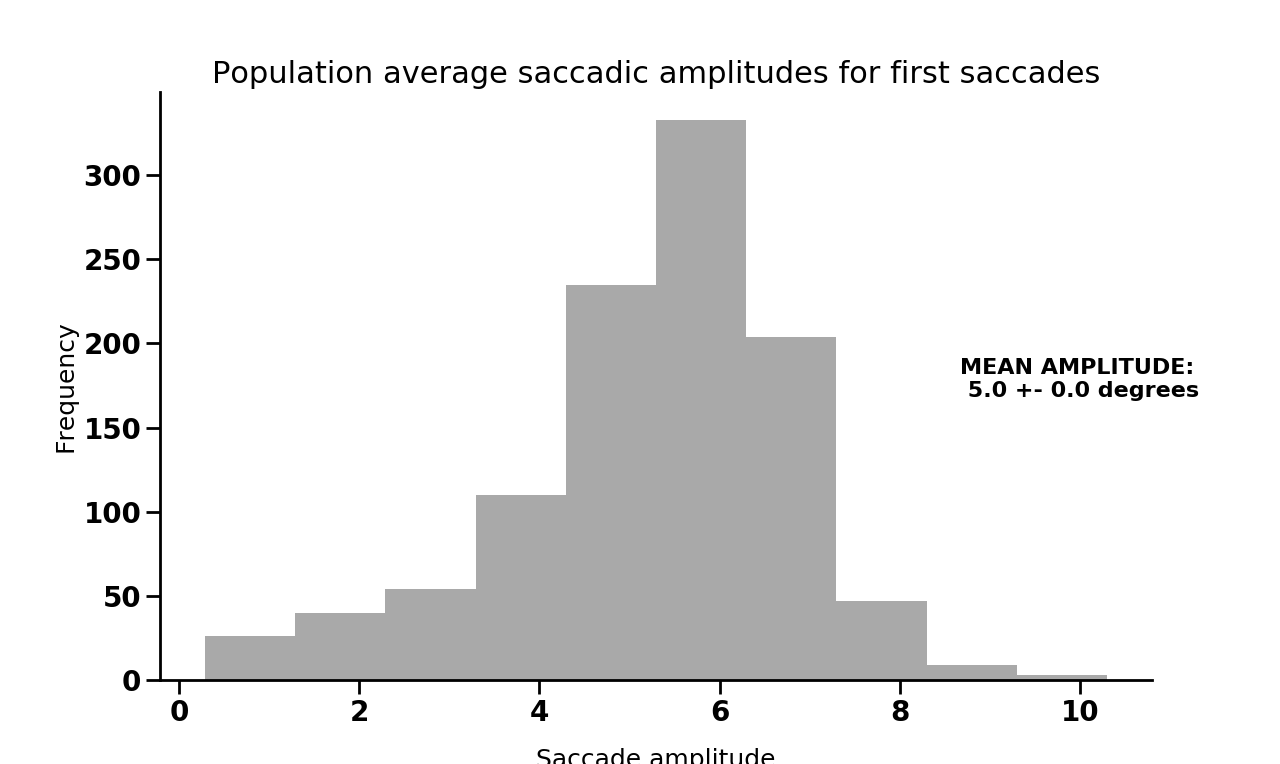
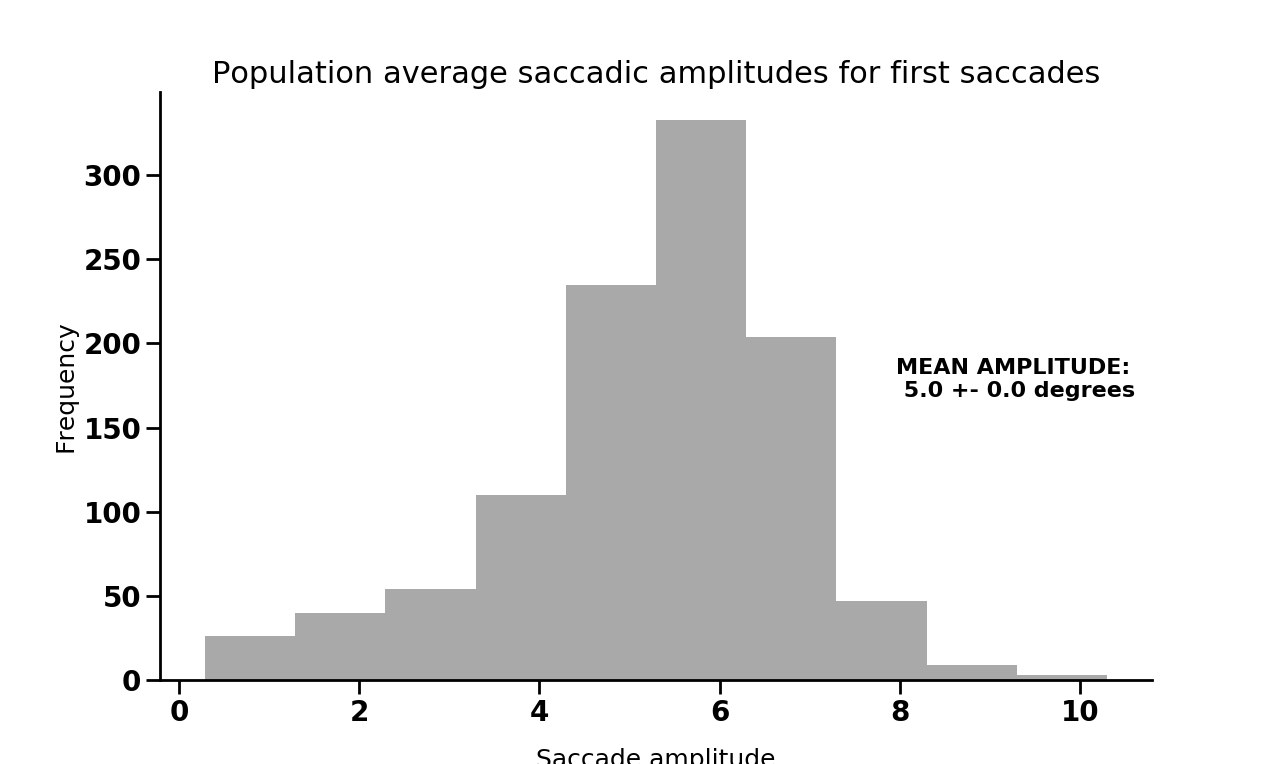
added figures and analysis code for anticipatory saccades

Changed region(s): [[0.6875, 0.4516, 0.9375, 0.5419]]

diff --git a/saccade_kinetmatic_analysis.py b/saccade_kinetmatic_analysis.py
@@ -312,6 +312,7 @@ def computeFirstSaccadeKinetmatics(block_matrix):
 # Start with computing saccadic onset latencies for first saccades only
 	# Pre-allocate data structure holders
 	onset_latencies = [[] for su in block_matrix];
+	anticipatory_latencies = [[] for su in block_matrix];
 	amplitudes = [[] for su in block_matrix];
 
 	#loop through each trial and score whether trial was excluded because of a dropped sample
@@ -358,6 +359,8 @@ def computeFirstSaccadeKinetmatics(block_matrix):
 						
 						#calculate the latency and amplitude, then save to the subject's array
 						onset_latencies[subj_nr].append(sac_start_time);
+						if sac_start_time<100:
+							anticipatory_latencies[subj_nr].append(sac_start_time);
 						amplitudes[subj_nr].append(sqrt((sac_start_pos[0] - sac_end_pos[0])**2+(sac_start_pos[1] - sac_end_pos[1])**2));
 											
 	#now calculate population stats for latency and amplitude, and plot
@@ -387,8 +390,6 @@ def computeFirstSaccadeKinetmatics(block_matrix):
 	#save the figure
 	savefig(figurepath+ 'SaccadeKinematics/' + 'FIRST_SACCADE_ONSET_DISTRIBUTION_ALLSUBJECTS.png');	
 
-
-
 	#now plot distribution of amplitudes
 	
 	fig = figure(figsize = (12.8,7.64)); ax=gca(); #grid(True);
@@ -402,11 +403,52 @@ def computeFirstSaccadeKinetmatics(block_matrix):
 	title('Population average saccadic amplitudes for first saccades', fontsize = 22);
 	
 	#add text detailing the mean saccadic latency
-	fig.text(0.75, 0.48, 'MEAN AMPLITUDE:\n %s +- %s degrees '%(round(mean(mew_amps)),round(amps_sems)),size=16,weight='bold');
+	fig.text(0.7, 0.48, 'MEAN AMPLITUDE:\n %s +- %s degrees '%(round(mean(mew_amps)),round(amps_sems)),size=16,weight='bold');
 
 	#save the figure
-	savefig(figurepath+ 'SaccadeKinematics/' + 'FIRST_SACCADE_AMPLITUDE_DISTRIBUTION_ALLSUBJECTS.png');	
+	savefig(figurepath+ 'SaccadeKinematics/' + 'FIRST_SACCADE_AMPLITUDE_DISTRIBUTION_ALLSUBJECTS.png');
+	
+	
+	#Belwo here, check out fast latency saccades
+	
+	#now, plot the distribution of very fast sacadic latencies, with a greater resoultion for anticipatory saccades:
+	
+	fast_lats = [l for l in all_lats if l<250];
+	
+	fig = figure(figsize = (12.8,7.64)); ax1=gca(); #grid(True);
+	#ax1.set_ylim(0, 0.8); ax1.set_yticks(arange(0, 0.81, 0.1)); #ax1.set_xlim([0.5,1.7]); ax1.set_xticks([0.85, 1.15, 1.45]);
+	ax1.set_ylabel('Frequency',size=18); ax1.set_xlabel('Onset latency',size=18,labelpad=15);
+	ax1.hist(fast_lats, bins = [0,25,50,75,100,125,150,175,200,225,250], color = 'green', edgecolor = 'black');
 
+	ax1.spines['right'].set_visible(False); ax1.spines['top'].set_visible(False);
+	ax1.spines['bottom'].set_linewidth(2.0); ax1.spines['left'].set_linewidth(2.0);
+	ax1.yaxis.set_ticks_position('left'); ax1.xaxis.set_ticks_position('bottom');
+	title('Population average saccadic latencies for \n FAST LATENCY (<250 ms) first saccades', fontsize = 22);
+	
+	#add text detailing the mean saccadic latency
+	fig.text(0.15, 0.48, 'POPULATION MEAN LATENCY:\n %s '%(round(mean(fast_lats))),size=16,weight='bold');
+
+	#save the figure
+	savefig(figurepath+ 'SaccadeKinematics/' + 'FASTLATENCY_FIRST_SACCADE_ONSET_DISTRIBUTION_ALLSUBJECTS.png');		
+
+	# Now find the number of fast (< 100 ms) saccades for each participant, find an average, and SEMs
+	anticipatory_mews = [mean(o) for o in anticipatory_latencies];
+	anticipatory_lens = [len(o) for o in anticipatory_latencies];
+	
+	mew_ant_lat = nanmean(anticipatory_mews);
+	sems_ant_lat = compute_BS_SEM(anticipatory_mews);
+	mew_ant_nr = nanmean(anticipatory_lens);
+	sems_ant_nr = compute_BS_SEM(anticipatory_lens);
+
+	print('\n\n #### ANTICIPATORY SACCADE DATA: #### \n\n\n');
+	print('\n\n MEAN LATENCY OF ANTICIPATORY 1ST SACCADES:\n %s +- %s\n\n'%(mew_ant_lat,sems_ant_lat));
+	print('\n\n MEAN NR ANTICIPATORY 1ST SACCADES:\n %s +- %s\n\n'%(mew_ant_nr, sems_ant_nr));
+
+		
+	
+	1/0
+
+	
 	
 def computeAllSaccadeKinetmatics(block_matrix):
 
@@ -859,6 +901,129 @@ def createFirstSaccadeEndpointMapAllTrialTypesTogether(block_matrix):
 	cb = colorbar(pad = 0.1, ticks = linspace(0,m,3), format = '%2.1f'); cb.outline.set_linewidth(2.0);
 	savefig(figurepath+'heatmaps/SACCADE_HEATMAPS/'+'ALLTRIALTYPES_FIRSTSACCADE_heatmap_subj_%s.png'%('ALLSUBJECTS'));
 	
+
+def createFastLatencyFirstSaccadeEndpointMapAllTrialTypesTogether(block_matrix):
+# This function computes heat maps for landing positions of saccade with faster than 100 ms latencies
+
+	start_time = time.time(); #start recording how long this takes
+
+#0. Create data holders for the analyses
+
+	#first, get the individual eye traces for each item for each trial where the selected_item was chosen
+	# store each item's eye traces (adding a +1 for the trace being in that location at any time point in the trial) by creating little windows
+	# e.g., a 4-degree by 4-degree square around each picture
+	#compare against reference X,Y coordinates and place the values into each matrrix accordingly
+	#aggregate this for each participant into a combined map
+		
+	#these are holder arrays for each participant, for each item.
+	# Each list holds a 40 by 40 matrix that will hold the aggregated 1's associated with an eye trace at that location according to it's distance wrt the reference array
+	# this gives me 0.5 degree resolution for the 20 dva by 20 dva square I am creating
+	subj_arrays = [zeros((40,40)) for su in block_matrix];
+	trial_counters = [[0] for su in block_matrix]; #to count how many trial are counted for this participant
+	
+	#these are arrays for the aggregated data
+	agg_array = zeros((40,40));
+	
+	#get reference arrays for the display. these are used to create a meshgrid for determinging where to place a 1
+	#NOTE: I am using a square for this matrix to make sure the placement of saccade endpoints is not stretched in one postion
+	# due to differences in size between the vertical and horizontal size of the display: display_size = array([22.80, 17.10]); 
+	
+	xx_vec = linspace(-10,10,40);
+	yy_vec = linspace(10,-10,40); #NOTE the flipped signs for y axis: positive to negative. Otherwise, this wouldn't correspond to the positive y values on the top of screen
+	
+#2. Iterate through for each subject and get the ending positions of each first saccade, storing appropriately, then create individual maps	
+
+	for subj_nr, blocks in enumerate(block_matrix):
+		for b in blocks:
+			for i in arange(0,len(b.trials)):
+				
+				if ((b.trials[i].dropped_sample == 0)&(b.trials[i].didntLookAtAnyItems == 0)&
+					(b.trials[i].skip == 0)&(sqrt(b.trials[i].eyeX[0]**2 + b.trials[i].eyeY[0]**2) < 2.5)):
+					
+					if (b.trials[i].nr_saccades > 0): #this conditional is used to ensure that no trials without saccades sneak through
+
+						trial_counters[subj_nr][0] +=1; 
+						#Below here goes through each trial and pulls out the ending point of the first saccde
+						# the while loop below runs through until a saccade is found (saccade_counter = 1) or
+						# we get to the end of the trial
+						sac_start_time = 0;	
+						
+						saccade_counter = 0;
+						while saccade_counter==0:
+							for ii,xx,yy,issac in zip(range(len(b.trials[i].sample_times)),
+																 b.trials[i].eyeX, b.trials[i].eyeY, b.trials[i].isSaccade):
+								#if no saccade has been made yet, keep running through the isSaccade array
+								# issac < 1 will be zero at all non-saccading time points, including the start
+								if issac == 0:
+									#if the previous sample was saccading and now it isn't, the first saccade is complete and we can grab the ending position
+									if (b.trials[i].isSaccade[ii-1]==True)&(ii>0):
+										first_sac_end = array([xx,yy]);
+										saccade_counter+=1;
+									
+									#if there is no saccade, this will trigger the stop I need to move out of the infinite loop	
+									if (ii == range(len(b.trials[i].sample_times))[-1]):
+										saccade_counter = 100;
+										
+								elif issac == 1:
+									#get the starting point for this saccade as well as the time
+									#the first transition between 0 and 1 will be the first saccade start
+									if (b.trials[i].isSaccade[ii-1]==False)&(ii>0)&(saccade_counter==0):
+										sac_start_time = b.trials[i].sample_times[ii];
+		
+						#at this point, I have the ending x,y position for the first saccade from trial N.
+						# Now, need to incorporate it into the corresponding position holder matrices.
+		
+						#after this, add a 1 to the appropriate location in this subjects' aggregated alcohol 'map'
+						# note that this computation is stored here in the outer For loop (rather than indented more)
+						# because I am only grabbing the first saccade endpoint. Further computations with all saccades
+						# will need to do this inside the for loop (while loop as well)
+						
+						#for this analysis, I only want to build a heat map for first saccades with very fast onsets (less than 100 ms)
+						if sac_start_time<=100:				
+							#now check where in the spatial array is the closest distane to the X,Y position of this data point
+							#this will be the minimum of the distance between each xx point and yy point
+							x_x, y_y = meshgrid(xx_vec, yy_vec);
+							minimum = 10000; coors = array([nan,nan]); #this pre-allocates a very large minimum and an array to hold the indices for the spatial position array
+							#loop through and keep checking against each x,y pair
+							for ex,why in zip(flatten(x_x),flatten(y_y)):
+								comparison = sqrt((first_sac_end[0]-ex)**2 + (first_sac_end[1]-why)**2);
+								if comparison < minimum:
+									minimum = comparison;
+									coors[0] = ex; coors[1] = why;
+							
+							#here, add a 1 to the ending point of each first saccade
+							x_loc = where(coors[0]==xx_vec)[0][0]; #x coordinate
+							y_loc = where(coors[1]==yy_vec)[0][0]; #y coordinate
+							subj_arrays[subj_nr][y_loc, x_loc] += 1; #add the 1 to the location in the corresponding map.
+							# NOTE the yloc, xloc coordinate system for indexing with this array. This must be done to get x-Loc to correspond to horizontal axis
+							#below, I will aggregate all individual subject's heat maps together in the agg array
+
+			end_time = time.time();
+			print '\n Aggregated total time = %4.2f minutes, completed subject %s block nr %s '%((end_time-start_time)/60.0,subj_nr, b.block_nr)  # trial nr %sb.trials[i].trial_nr)
+
+			#save each subject's first saccade endpoint heat maps
+			if b.block_nr==len(blocks):
+				#save the 'raw' heat maps
+				figure(); imshow(subj_arrays[subj_nr], cmap='hot'); title('FASTLATENCY_ALLTRIALTYPES_FIRST_SACCADE_heatmap_subj_%s'%(subj_nr));
+				#set a legend. first, get the maximal value in the array to define a legend
+				m = round(max(map(max,subj_arrays[subj_nr])),1);
+				cb = colorbar(pad = 0.1, ticks = linspace(0,m,3)); cb.outline.set_linewidth(2.0);
+				savefig(figurepath+'heatmaps/SACCADE_HEATMAPS/'+'FASTLATENCY_ALLTRIALTYPES_FIRSTSACCADE_heatmap_subj_%s.png'%(subj_nr));				
+			
+				
+# 3. Aggregate across subjects by finding the average fixation accumulation		
+			
+	for su in zip(subj_arrays):
+		agg_array += su[0]; #add each subjects' heat maps together	
+	agg_array = agg_array/len(block_matrix); #to get the average
+	
+	#create and save the figure
+	figure(); imshow(agg_array, cmap='hot'); title('FASTLATENCY_ALLTRIALTYPES_FIRST_SACCADE_heatmap_subj_%s'%('ALLSUBJECTS'));
+	#set a legend. first, get the maximal value in the array to define a legend
+	m = round(max(map(max,agg_array)),1);
+	cb = colorbar(pad = 0.1, ticks = linspace(0,m,3), format = '%2.1f'); cb.outline.set_linewidth(2.0);
+	savefig(figurepath+'heatmaps/SACCADE_HEATMAPS/'+'FASTLATENCY_ALLTRIALTYPES_FIRSTSACCADE_heatmap_subj_%s.png'%('ALLSUBJECTS'));
+
 	
 def createOtherSaccadeEndpointMaps(block_matrix, ttype):
 # Same as above, but for all saccadic endpoints OTHER than the first saccade and broken down by trial types
